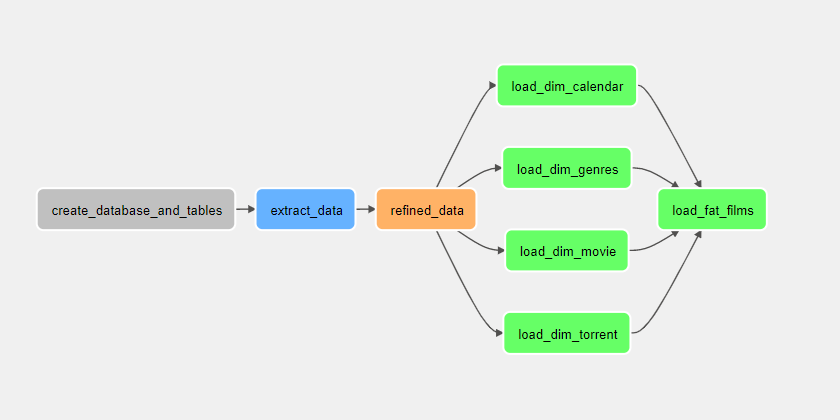
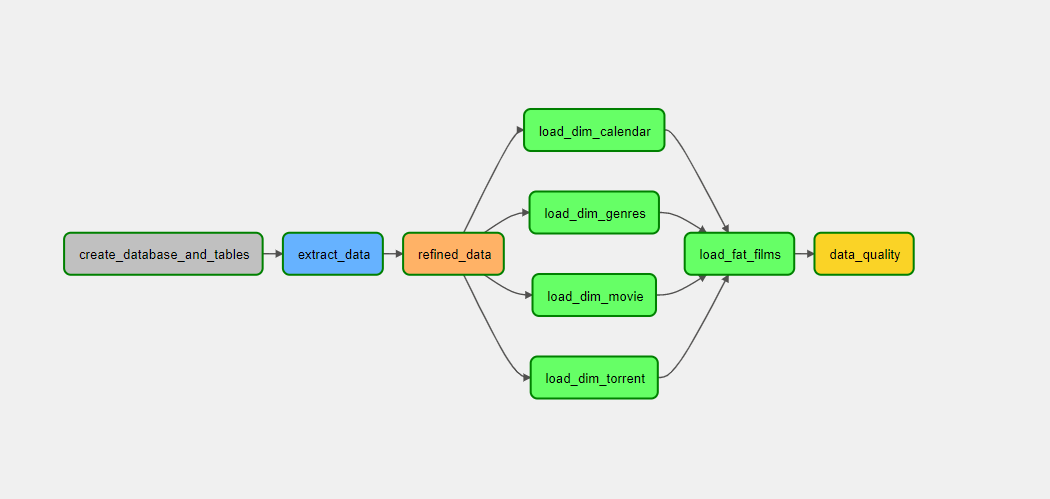
Updated README.md

diff --git a/README.md b/README.md
@@ -1,21 +1,27 @@
 # ETL Yts Movies 📽
+
 ## Overview 📑
+
 This ETL is a sample of my coding work with python using *Apache Airflow* for pipeline orchestration, *Pandas* for data manipulation, *MySql* as storage and *Apache Superset* for data visualization.
 
 This process uses the **YTS Movies API**, a public API for developers, as data sources.<br>
 For more information about this API [click here](https://yts.torrentbay.to/api).
 
-
 # Pipeline workflow 👷🏽
+
 ![](Docs/Screenshot/pipeline_diagram.png)
+
 ## Step-By-Step
+
 1. The first step in this process is to create the database and tables.
 
 2. The second step is to extract the data from the api and store it in MySql in the bronze database.
 
-3. The third step is data refinement and storage in silver database in MySql
+3. The third step is data refinement and storage in silver database in MySql.
 
-4. The last step is to load the data and create the star schema model and store the data in the gold database in MySql
+4. The four step is to load the data and create the star schema model and store the data in the gold database in MySql.
+
+5. The last step makes a data quality of data to check existing duplicated records or check if found records in the tables.
 
 # Techniques and Tools 🛠
 
@@ -24,30 +30,30 @@ For more information about this API [click here](https://yts.torrentbay.to/api).
 - Star Schema Model
 - Python ( *Pandas* , *POO* )
 - SQL
+- Data Quality
 - Apache Airflow
 - Apache Superset
   
 # Database Design ✏
 
-* For this project, the star schema is used to design tables. In this way, it simplifies queries and provides fast data aggregation.
+- For this project, the star schema is used to design tables. In this way, it simplifies queries and provides fast data aggregation.
 
 ![](Docs/Screenshot/digram_star_schema.png)
 
 ---
 
-* For process control two tables were created, **etl_logging** to save the process execution steps and **etl_process** to define the type of process
+- For process control two tables were created, **etl_logging** to save the process execution steps and **etl_process** to define the type of process.
 
 ![](Docs/Screenshot/digram_etl_control.png)
 
 # Sample Data Visualization 📊
 
-* This is an example of a dashboard template for data visualization, build in apache superset.
+- This is an example of a dashboard template for data visualization, build in apache superset.
   
 ![](Docs/Screenshot/superset-dashboard.jpg)
 
+# Apache Airflow Pipeline
 
-# Apache Airflow Pipeline 
-
-* This is what the airflow dag looks like:
+- This is what the airflow dag looks like:
 
 ![](Docs/Screenshot/airflow_pipeline.png)
